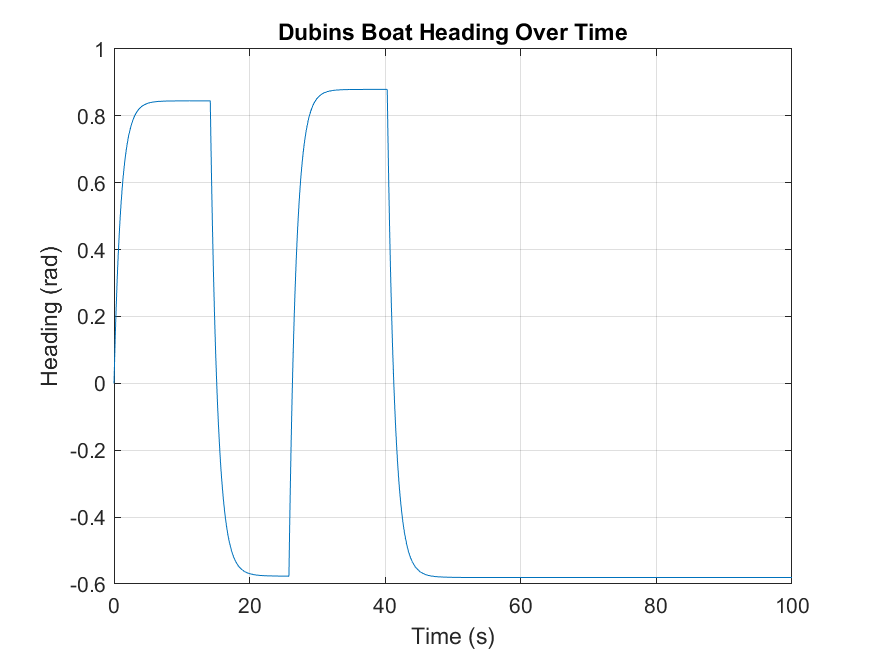
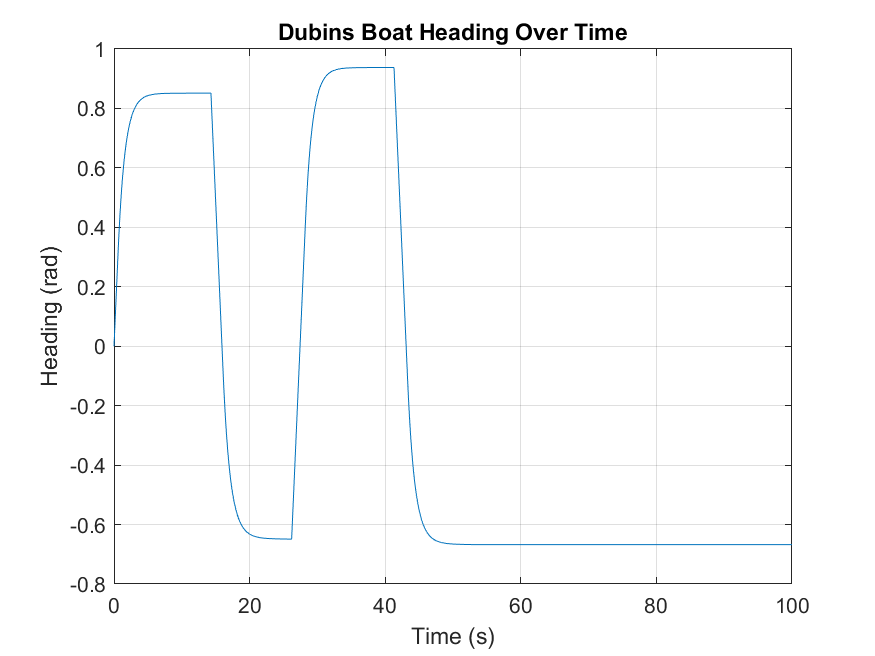
Working blended lqr-proportional controller

diff --git a/controllers/lqr_controller.m b/controllers/lqr_controller.m
@@ -1,0 +1,62 @@
+function delta_r = lqr_controller(state, waypoint)
+    % LQR controller for the Dubins boat model to reach a waypoint in minimum time.
+    % Inputs:
+    %   state    - Current state [x; y; theta; v]
+    %   waypoint - Target waypoint [x_target; y_target]
+    % Output:
+    %   delta_r  - Rudder angle control input
+
+    % Extract state variables
+    x = state(1);
+    y = state(2);
+    theta = state(3);
+    v = state(4);
+
+    % Compute the error to the waypoint
+    x_error = waypoint(1) - x;
+    y_error = waypoint(2) - y;
+
+    % Desired heading to the waypoint
+    desired_heading = atan2(y_error, x_error);
+
+    % Linearize the system around the current state
+    if v == 0
+        v = 0.1; % Avoid singularity by setting a small velocity
+    end
+    A = [0, 0, -v * sin(theta), cos(theta);
+         0, 0,  v * cos(theta), sin(theta);
+         0, 0,  0,              0;
+         0, 0,  0,              0];
+    B = [0; 0; 1; 0];
+
+    % Define LQR cost matrices
+    Q = diag([10, 10, 5, 0]); % Penalize position and heading errors
+    R = 1;                    % Penalize control effort
+
+    % Check if the system is controllable
+    if rank(ctrb(A, B)) < size(A, 1)
+        % Use proportional control as a fallback
+        k_p = 1.0;
+        heading_error = wrapToPi(desired_heading - theta);
+        delta_r = k_p * heading_error;
+    else
+        % Compute the LQR gain matrix
+        try
+            K = lqr(A, B, Q, R);
+        catch ME
+            warning('LQR computation failed: %s', ME.message);
+            delta_r = 0; % Default to no control
+            return;
+        end
+
+        % Define the state error vector
+        state_error = [x_error; y_error; wrapToPi(desired_heading - theta); 0];
+
+        % Use LQR control
+        delta_r = -K * state_error;
+    end
+
+    % Limit the rudder angle to a maximum value
+    max_rudder_angle = pi / 6; % 30 degrees
+    delta_r = max(min(delta_r, max_rudder_angle), -max_rudder_angle);
+end

diff --git a/simulations/run_dubins_boat_w_controller.m b/simulations/run_dubins_boat_w_controller.m
@@ -23,7 +23,8 @@ for i = 1:dt:time_span(end)
     waypoint = waypoints(waypoint_counter, :);
 
     % Compute the control input using the waypoint controller
-    controls = struct('delta_r', dubins_waypoint_controller(state, waypoint));
+    % controls = struct('delta_r', dubins_waypoint_controller(state, waypoint));
+    controls = struct('delta_r', lqr_controller(state, waypoint));
 
     % Integrate the state using the Dubins boat model
     [~, state] = ode45(@(t, state) dubins_boat_model(t, state, controls, wind), [t t+dt], state);
